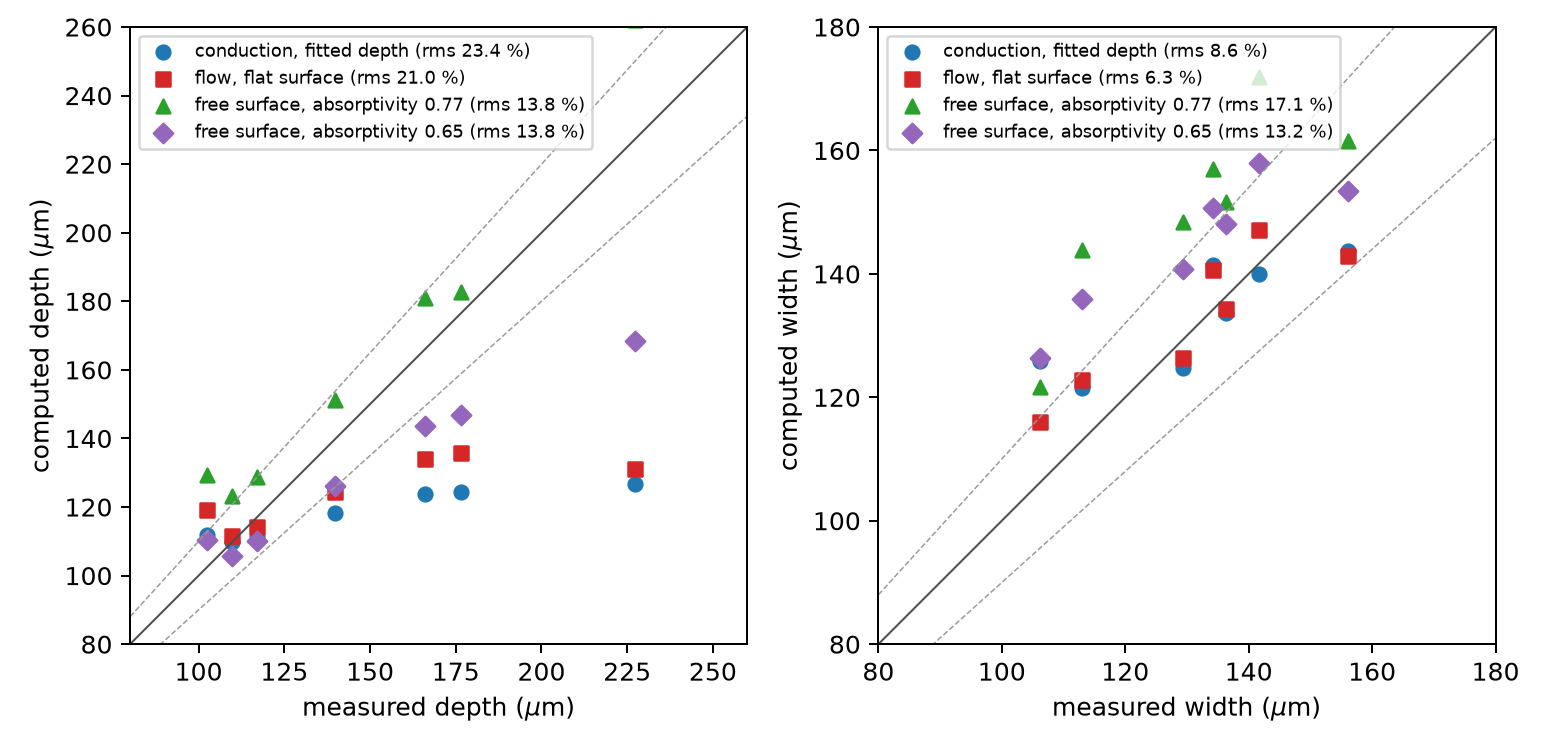
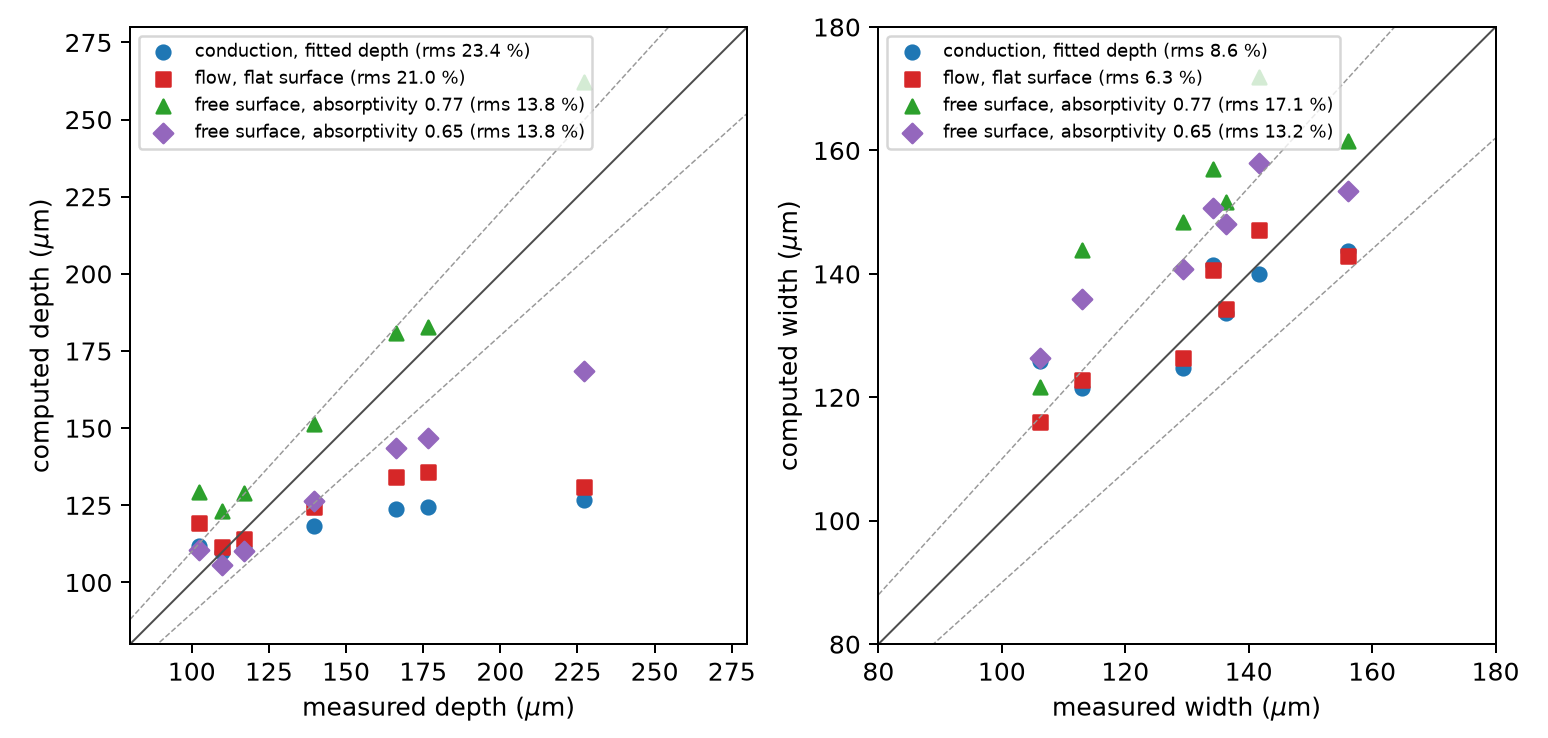
Part V: comparison figure of the track models with the full depth range

diff --git a/scripts/lpbf_defects.py b/scripts/lpbf_defects.py
@@ -239,7 +239,7 @@ def cmd_compare(out: Path, pairs: list[str]) -> None:
             rms = float(np.sqrt((((sim / meas) - 1.0) ** 2).mean()) * 100.0)
             ax.scatter(meas, sim, s=30, marker=marker, color=color, label=f"{label} (rms {rms:.1f} %)")
     for ax, key in zip(axes, ("depth", "width")):
-        lim = [80.0, 260.0] if key == "depth" else [80.0, 180.0]
+        lim = [80.0, 280.0] if key == "depth" else [80.0, 180.0]
         ax.plot(lim, lim, color="0.3", lw=0.8)
         ax.plot(lim, [0.9 * v for v in lim], color="0.6", lw=0.6, ls="--")
         ax.plot(lim, [1.1 * v for v in lim], color="0.6", lw=0.6, ls="--")

diff --git a/docs/reports/lpbf_process_pinnacle_benchmark_report.md b/docs/reports/lpbf_process_pinnacle_benchmark_report.md
@@ -1542,7 +1542,8 @@ the plane just below the plate surface. Animations of the seven tracks:
   smallest spot) by 15 % where conduction left it 44 % short. The spread of the depth
   errors over the seven tracks falls from 17 points (conduction, flat flow) to 7: the
   model now carries the dependence of the depth on the spot size, which a flat surface
-  could not (section 6.5).
+  could not (section 6.5). In Figure 21 the flat models level off near 130 um whatever
+  the measured depth, and the free-surface depths rise with it.
 - **One refitted parameter does not improve the set.** At 0.65 the two fit tracks are
   right in the mean, but the depth of the keyhole tracks falls faster than measured
   (track 1.1 from 262 to 169 um for 16 % less absorbed power), and the rms error stays
